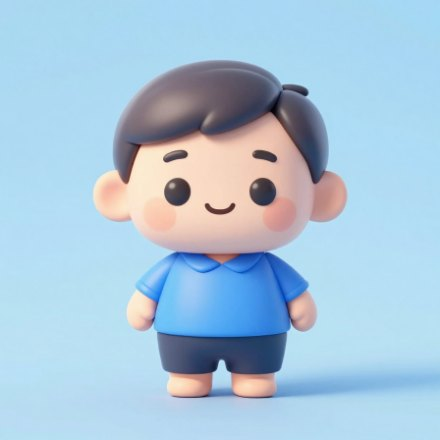
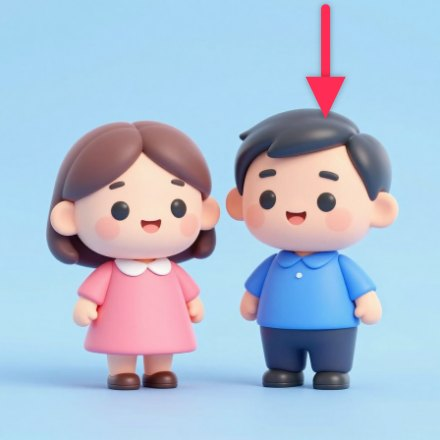
feat: 身體圖重畫（刪足）、人物題改雙人+箭嘴、餵食圓圈慢慢移動、生果只補唔夠

diff --git a/assets/js/data-vocab.js b/assets/js/data-vocab.js
@@ -110,14 +110,13 @@ window.VOCAB = {
   body: {
     zh: '身體', en: 'Body', emoji: '👀', artType: 'body',
     items: [
-      { zh: '口', yue: '口', py: 'kǒu', en: 'mouth', art: 'mouth', img: 'a cute cartoon open smiling mouth, just lips and teeth, close-up, pink' },
-      { zh: '耳', yue: '耳仔', py: 'ěr', en: 'ear', art: 'ears', img: 'a cute cartoon human ear, single, close-up, skin colour' },
-      { zh: '手', yue: '手', py: 'shǒu', en: 'hand', art: 'hand', img: 'a cute cartoon child hand with five fingers, palm open, skin colour' },
-      { zh: '眼', yue: '眼', py: 'yǎn', en: 'eye', art: 'eyes', img: 'a pair of cute cartoon eyes with big shiny pupils and lashes' },
-      { zh: '牙', yue: '牙', py: 'yá', en: 'tooth', art: 'teeth', img: 'a cute cartoon white tooth with a happy face, dental style' },
-      { zh: '鼻', yue: '鼻', py: 'bí', en: 'nose', art: 'nose', img: 'a cute cartoon human nose, simple, skin colour, front view' },
-      { zh: '腳', yue: '腳', py: 'jiǎo', en: 'foot', art: 'foot', img: 'a cute cartoon child foot with five toes, side view, skin colour' },
-      { zh: '足', yue: '足', py: 'zú', en: 'foot', art: 'foot2', img: 'a single human bare foot, sole and toes clearly visible, skin colour, no fur, not an animal' },
+      { zh: '口', yue: '口', py: 'kǒu', en: 'mouth', art: 'mouth', img: 'a big cute cartoon mouth, smiling, red lips and two white teeth, close up, very clear, on plain background' },
+      { zh: '耳', yue: '耳仔', py: 'ěr', en: 'ear', art: 'ears', img: 'ONE single cute cartoon human ear, large, close up, skin colour, very clear silhouette, no other body parts' },
+      { zh: '手', yue: '手', py: 'shǒu', en: 'hand', art: 'hand', img: 'ONE cute cartoon human hand, palm open, five fingers clearly separated, skin colour, no arm, no body' },
+      { zh: '眼', yue: '眼', py: 'yǎn', en: 'eye', art: 'eyes', img: 'a pair of cute cartoon eyes only, big shiny black pupils, eyelashes, no face, no skin, on plain background' },
+      { zh: '牙', yue: '牙', py: 'yá', en: 'tooth', art: 'teeth', img: 'ONE big cute cartoon white tooth with a happy face, dental molar shape, no mouth, no gums' },
+      { zh: '鼻', yue: '鼻', py: 'bí', en: 'nose', art: 'nose', img: 'ONE cute cartoon human nose, large, front view, skin colour, no eyes, no mouth, no face' },
+      { zh: '腳', yue: '腳', py: 'jiǎo', en: 'foot', art: 'foot', img: 'ONE cute cartoon human bare foot seen from the side, five toes clearly visible, heel and sole, skin colour, large, no leg, no body' },
     ],
   },
   /* ---------------------------------------------------------------- 自然 */
@@ -177,16 +176,16 @@ window.VOCAB = {
   people: {
     zh: '人物', en: 'People', emoji: '👨👩👧', artType: 'people',
     items: [
-      { zh: '爸', yue: '爸爸', py: 'bà', en: 'dad', art: 'dad', img: 'a cute cartoon father, friendly smile, blue shirt, full body' },
-      { zh: '媽', yue: '媽媽', py: 'mā', en: 'mum', art: 'mum', img: 'a cute cartoon mother, friendly smile, pink dress, full body' },
-      { zh: '哥', yue: '哥哥', py: 'gē', en: 'big brother', art: 'brother', img: 'a cute cartoon boy, green t-shirt, full body' },
-      { zh: '弟', yue: '弟弟', py: 'dì', en: 'little brother', art: 'little-bro', img: 'a cute cartoon small toddler boy, yellow t-shirt, full body' },
-      { zh: '妹', yue: '妹妹', py: 'mèi', en: 'little sister', art: 'little-sis', img: 'a cute cartoon small toddler girl, purple dress, full body' },
-      { zh: '姊', yue: '姐姐', py: 'zǐ', en: 'big sister', art: 'sister', img: 'a cute cartoon girl, red dress, full body' },
-      { zh: '男', yue: '男仔', py: 'nán', en: 'boy', art: 'boy', img: 'a cute cartoon boy standing, blue t-shirt and shorts, full body' },
-      { zh: '女', yue: '女仔', py: 'nǚ', en: 'girl', art: 'girl', img: 'a cute cartoon girl standing, pink dress, full body' },
-      { zh: '人', yue: '人', py: 'rén', en: 'person', art: 'person', img: 'a cute cartoon person standing, friendly smile, full body' },
-      { zh: '小朋友', yue: '小朋友', py: 'xiǎo péng yǒu', en: 'child', art: 'child', img: 'a cute cartoon happy child waving, full body' },
+      { zh: '爸', yue: '爸爸', py: 'bà', en: 'dad', art: 'dad', arrow: 0.74, img: 'two cute cartoon adults standing side by side: on the LEFT a mother in a pink dress, on the RIGHT a father in a blue shirt with short hair' },
+      { zh: '媽', yue: '媽媽', py: 'mā', en: 'mum', art: 'mum', arrow: 0.74, img: 'two cute cartoon adults standing side by side: on the LEFT a father in a blue shirt, on the RIGHT a mother in a pink dress with long hair' },
+      { zh: '哥', yue: '哥哥', py: 'gē', en: 'big brother', art: 'brother', arrow: 0.74, img: 'two cute cartoon boys standing side by side: on the LEFT a SMALL toddler boy in yellow, on the RIGHT a BIG taller boy in green' },
+      { zh: '弟', yue: '弟弟', py: 'dì', en: 'little brother', art: 'little-bro', arrow: 0.74, img: 'two cute cartoon boys standing side by side: on the LEFT a BIG taller boy in green, on the RIGHT a SMALL toddler boy in yellow' },
+      { zh: '妹', yue: '妹妹', py: 'mèi', en: 'little sister', art: 'little-sis', arrow: 0.74, img: 'two cute cartoon girls standing side by side: on the LEFT a BIG taller girl in red, on the RIGHT a SMALL toddler girl in purple' },
+      { zh: '姊', yue: '姐姐', py: 'zǐ', en: 'big sister', art: 'sister', arrow: 0.74, img: 'two cute cartoon girls standing side by side: on the LEFT a SMALL toddler girl in purple, on the RIGHT a BIG taller girl in red' },
+      { zh: '男', yue: '男仔', py: 'nán', en: 'boy', art: 'boy', arrow: 0.74, img: 'two cute cartoon children standing side by side: on the LEFT a girl in a pink dress, on the RIGHT a boy in a blue t-shirt' },
+      { zh: '女', yue: '女仔', py: 'nǚ', en: 'girl', art: 'girl', arrow: 0.74, img: 'two cute cartoon children standing side by side: on the LEFT a boy in a blue t-shirt, on the RIGHT a girl in a pink dress' },
+      { zh: '人', yue: '人', py: 'rén', en: 'person', art: 'person', arrow: 0.74, img: 'two cute cartoon people standing side by side: on the LEFT a small child, on the RIGHT a grown up adult' },
+      { zh: '小朋友', yue: '小朋友', py: 'xiǎo péng yǒu', en: 'child', art: 'child', arrow: 0.74, img: 'two cute cartoon people standing side by side: on the LEFT a tall grown up adult, on the RIGHT a small child' },
     ],
   },
   /* ---------------------------------------------------------------- 食物 */

diff --git a/assets/js/screen-feed.js b/assets/js/screen-feed.js
@@ -37,6 +37,8 @@
     raf: 0,
     last: 0,
     timers: [],
+    drift: 0,
+    circle: { x: 0, y: 0 },
   };
 
   function later(fn, ms) { const t = setTimeout(fn, ms); F.timers.push(t); return t; }
@@ -65,6 +67,8 @@
       circle.style.left = g.cx - g.r + 'px';
       circle.style.top = g.cy - g.r + 'px';
     }
+    F.circle.x = g.cx;
+    F.circle.y = g.cy;
     // 跟拍撳區：比圈大一圈（小朋友撳手／邊緣都中）
     const hit = $('#beat-hit');
     if (hit) {
@@ -107,7 +111,9 @@
     F.taps = 0;
     F.perfect = 0;
     clearTimers();
-    window.Profile.ensureFruits(THROWS);
+    stopDrift();
+    F._driftT = Math.random() * 6;
+    const gifted = window.Profile.ensureFruits(THROWS);
 
     C.go('feed');
     later(() => {
@@ -127,6 +133,8 @@
         screen.classList.add('stage-throw', 'feed-' + themeName);
       }
       startLoop();
+      startDrift();
+      if (gifted) tip('精靈送咗生果俾你！', 1800);
     }, 80);
   }
 
@@ -193,11 +201,12 @@
     const g = F.geo;
     const from = { x: g.basket.x + rnd(-26, 26), y: g.basket.y - 22 };
     let to;
+    const cur = (F.circle && F.circle.x) ? F.circle : { x: g.cx, y: g.cy };
     if (target) to = target;
     else {
       const rr = g.r * (Math.random() < 0.62 ? rnd(0.1, 0.32) : rnd(0.35, 0.72));
       const a = rnd(0, Math.PI * 2);
-      to = { x: g.cx + Math.cos(a) * rr, y: g.cy + Math.sin(a) * rr * 0.55 };
+      to = { x: cur.x + Math.cos(a) * rr, y: cur.y + Math.sin(a) * rr * 0.55 };
     }
     const el = document.createElement('div');
     el.className = 'throw-fruit';
@@ -213,8 +222,9 @@
     const obj = { el, t: 0, dur: 0.5, sx: from.x, sy: from.y, tx: to.x, ty: to.y, arc: Math.min(180, g.H * 0.18) };
     F.fruits.push(obj);
     later(() => {
-      const dx = to.x - g.cx;
-      const dy = (to.y - g.cy) / 0.55;
+      const curStay = (F.circle && F.circle.x) ? F.circle : { x: g.cx, y: g.cy };
+      const dx = to.x - curStay.x;
+      const dy = (to.y - curStay.y) / 0.55;
       const ratio = Math.hypot(dx, dy) / g.r;
       let pts = 3, label = '差少少', color = '#ffd6de';
       if (ratio < 0.34) { pts = 20; label = '好準呀！'; color = '#7dffb0'; }
@@ -236,6 +246,31 @@
         later(() => { if (F.stage === 'throw') { tip('再掟多一個！', 1100); if (hint) hint.textContent = '將魔法生果掟入圈圈！'; } }, 520);
       }
     }, obj.dur * 1000);
+  }
+
+  /* 圓圈慢慢上下左右飄（似拋食物俾動物） */
+  function startDrift() {
+    stopDrift();
+    const step = () => {
+      const g = F.geo;
+      if (!g || C.screen !== 'feed') { F.drift = 0; return; }
+      if (!F._driftT) F._driftT = Math.random() * 6;
+      F._driftT += 1 / 60;
+      const tt = F._driftT;
+      const ampX = Math.min(g.W * 0.17, 74);
+      const ampY = Math.min(g.H * 0.055, 46);
+      const x = clamp(g.cx + Math.sin(tt * 0.85) * ampX, g.r + 18, g.W - g.r - 18);
+      const y = clamp(g.cy + Math.sin(tt * 0.62 + 1.1) * ampY, g.cy - ampY - 10, g.cy + ampY + 10);
+      F.circle.x = x;
+      F.circle.y = y;
+      const c = $('#feed-circle');
+      if (c) { c.style.left = x - g.r + 'px'; c.style.top = y - g.r + 'px'; }
+      F.drift = requestAnimationFrame(step);
+    };
+    F.drift = requestAnimationFrame(step);
+  }
+  function stopDrift() {
+    if (F.drift) { cancelAnimationFrame(F.drift); F.drift = 0; }
   }
 
   function circlePulse() {
@@ -573,6 +608,7 @@
   /* ================================================================ 獎勵卡 */
   function goReveal() {
     F.stage = 'done';
+    stopDrift();
     window.Metro.stop();
     clearTimers();
     const a = F.animal;

diff --git a/assets/js/ai-index.js b/assets/js/ai-index.js
@@ -618,7 +618,6 @@ window.AI_INDEX = {
   "body/4": "assets/img/items/body/4.webp",
   "body/5": "assets/img/items/body/5.webp",
   "body/6": "assets/img/items/body/6.webp",
-  "body/7": "assets/img/items/body/7.webp",
   "food/0": "assets/img/items/food/0.webp",
   "food/1": "assets/img/items/food/1.webp",
   "food/2": "assets/img/items/food/2.webp",
